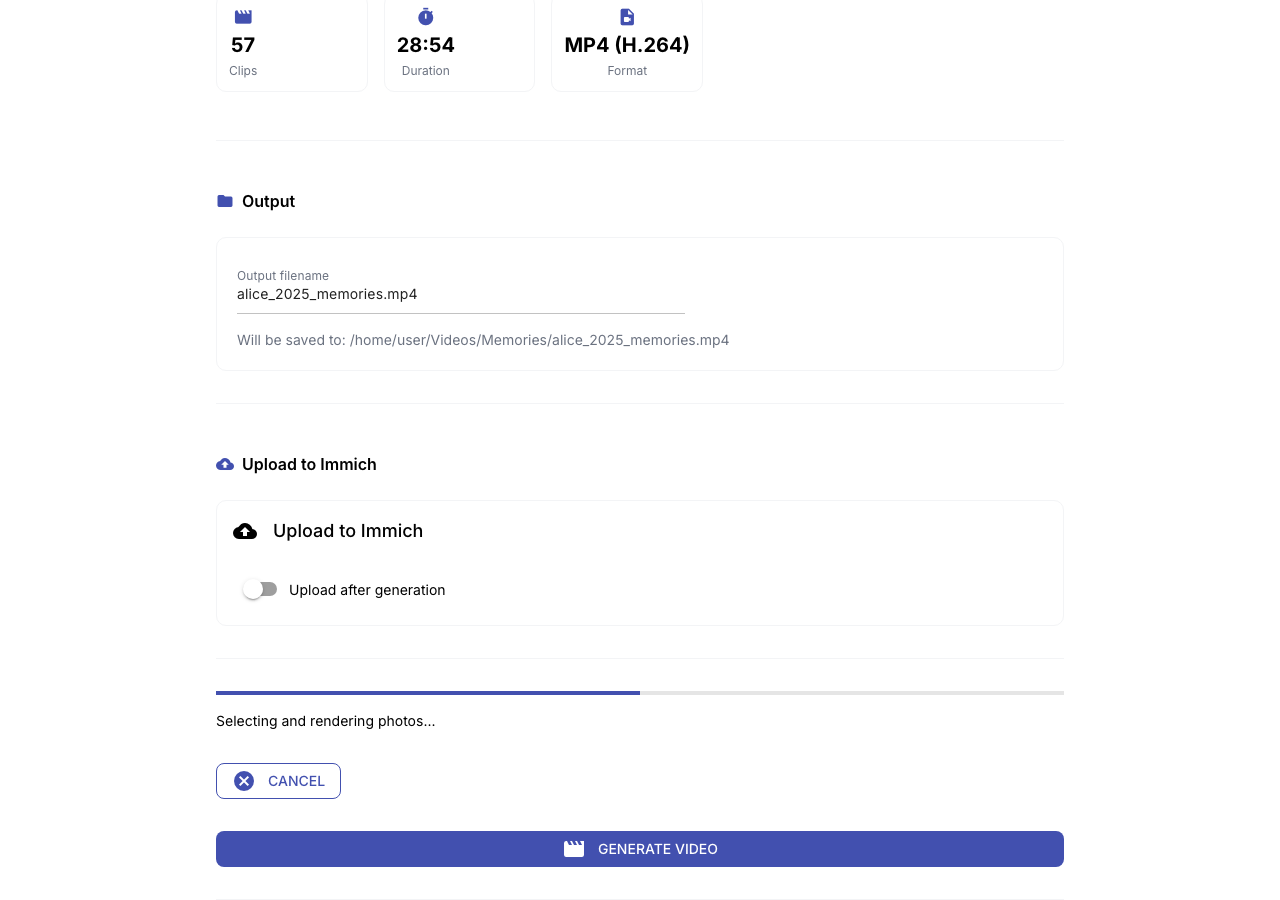
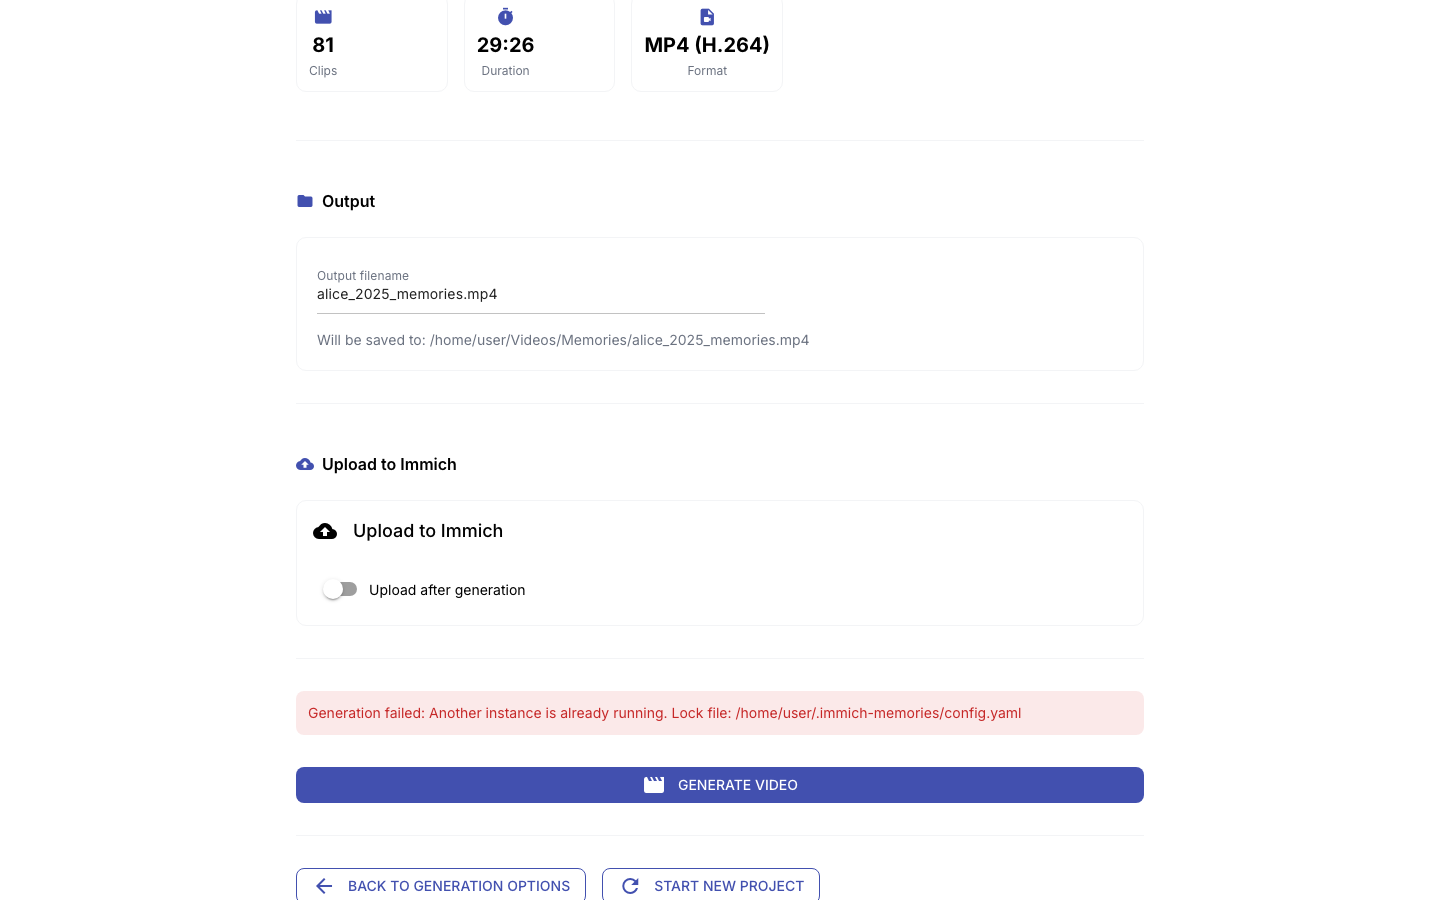
test(e2e): generation test uses January 2025 + 1min target
Select Monthly Highlights with explicit month/year and target
duration set to 1 minute via UI input. Generation blocked by
concurrent pipeline lock — will succeed when no other render
is running.

diff --git a/tests/e2e/test_full_generation.py b/tests/e2e/test_full_generation.py
@@ -108,7 +108,7 @@ def test_full_generation_pipeline(
     """Run the full pipeline: preset → analyze → generate → complete."""
     d = screenshot_dir
 
-    # ── Step 1: Select Monthly Highlights for a recent month ──
+    # ── Step 1: Select Monthly Highlights for January 2025 ──
     _goto(page, gen_server_url)
     page.wait_for_timeout(3000)
     set_theme(page, "light")
@@ -123,19 +123,32 @@ def test_full_generation_pipeline(
     monthly.click()
     page.wait_for_timeout(1000)
 
-    # Pick first available person if person combo appears
-    person_combo = page.get_by_role("combobox", name="Person")
-    if person_combo.is_visible(timeout=3000):
-        person_combo.click()
-        page.wait_for_timeout(500)
-        options = page.get_by_role("option")
-        if options.count() > 1:
-            options.nth(1).click()
+    # Set month to January 2025
+    month_select = page.get_by_role("combobox", name="Month")
+    if month_select.is_visible(timeout=3000):
+        month_select.click()
+        page.wait_for_timeout(300)
+        jan_option = page.get_by_role("option", name="January")
+        if jan_option.is_visible(timeout=2000):
+            jan_option.click()
+            page.wait_for_timeout(300)
+
+    year_select = page.get_by_role("combobox", name="Year")
+    if year_select.is_visible(timeout=3000):
+        year_select.click()
+        page.wait_for_timeout(300)
+        y2025 = page.get_by_role("option", name="2025")
+        if y2025.is_visible(timeout=2000):
+            y2025.click()
+            page.wait_for_timeout(300)
+
+    # Set target duration to 1 minute
+    duration_input = page.get_by_label("Target Duration")
+    if duration_input.is_visible(timeout=3000):
+        duration_input.fill("1")
         page.wait_for_timeout(300)
 
-    _prep(page)
-    _goto(page, gen_server_url)  # Force page refresh to pick up selections
-    page.wait_for_timeout(2000)
+    page.wait_for_timeout(1000)
 
     # Click Next to start analysis
     next_btn = page.get_by_role("button", name="Next: Review Clips")
